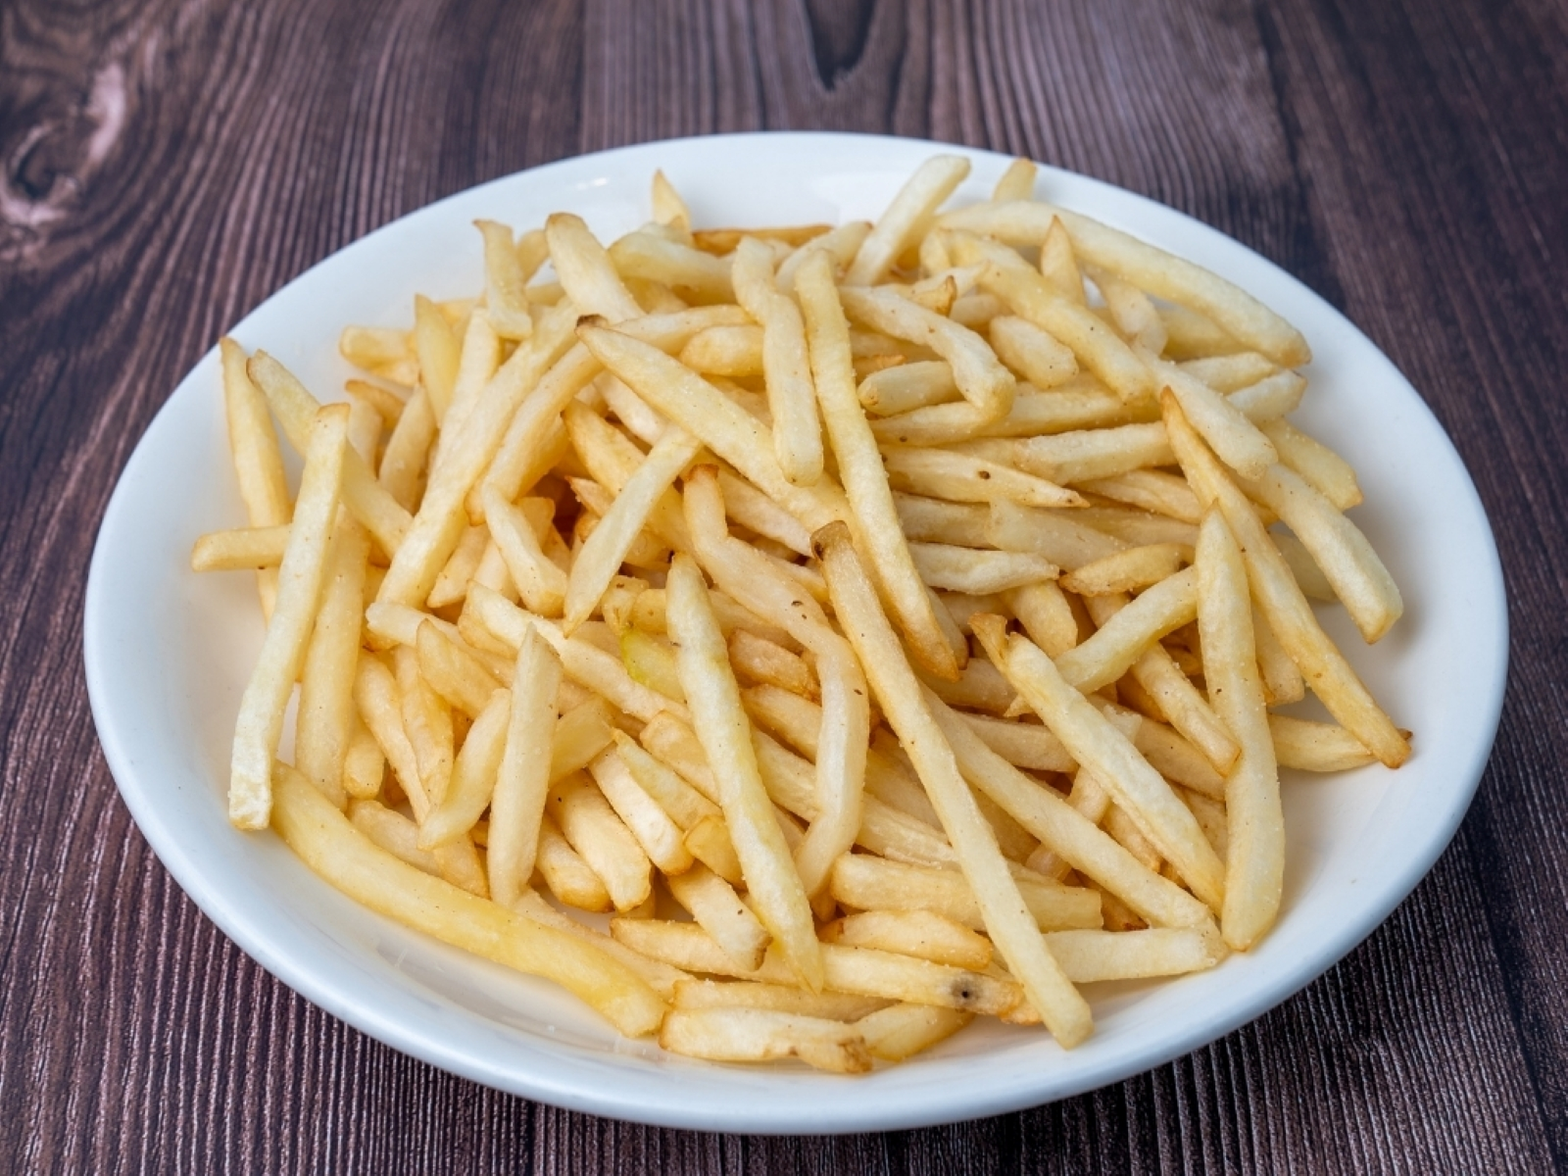
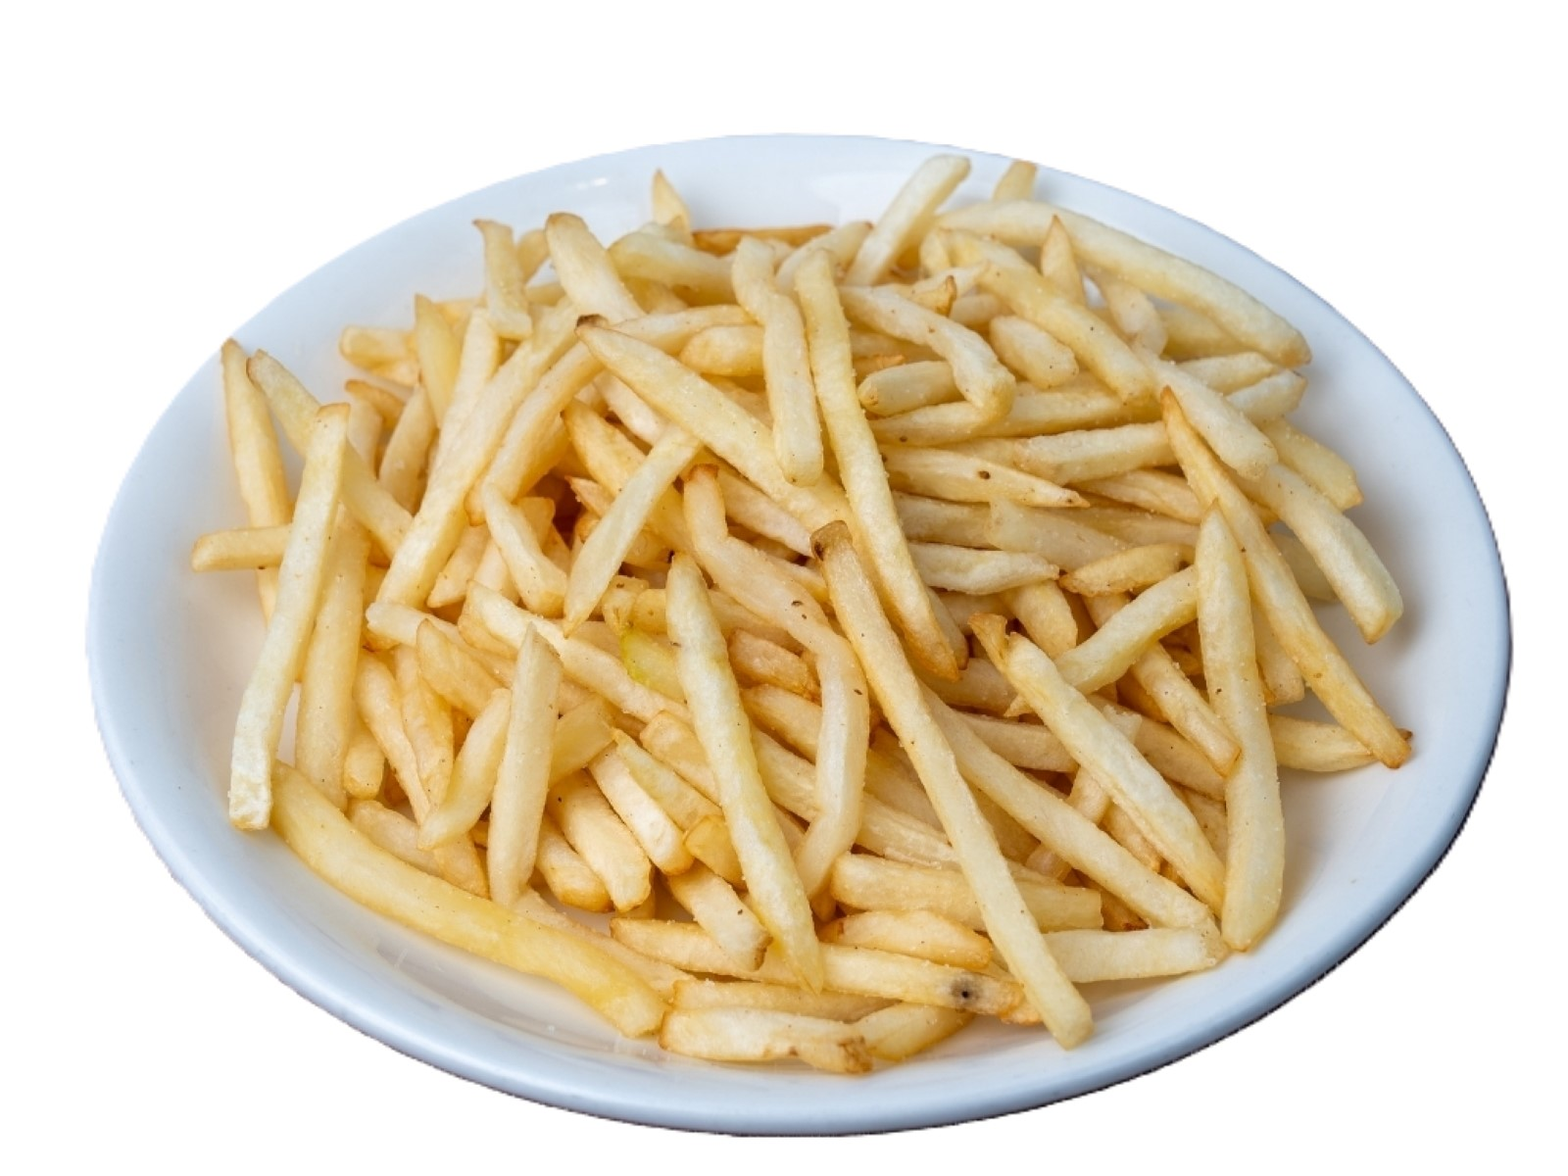
Refresh all menu photos with new client image set
Swap all 49 menu item photos in menu-data.ts to the new client-provided
images. Lamb Shish uses the corrected lamb-shish photo; Four-Section Pide
uses the Mix Pide photo. Old images retained locally as backup.

diff --git a/lib/menu-data.ts b/lib/menu-data.ts
@@ -58,18 +58,18 @@ export const menuSections: MenuSection[] = [
     imageAlt:
       "A mixed kebab platter at Meet and Eat featuring Adana, lamb shish, chicken shish, and beef doner kebabs with rice, fresh salad, and grilled peppers",
     items: [
-      { name: "Beef Doner Kebab", description: "Thinly sliced marinated beef, served with rice, onion, and sour red cabbage salad, and flatbread.", price: 23, featured: true, image: "/images/menu/Kebabs/Beef Doner Kebab.png" },
-      { name: "Iskender Kebab", description: "Marinated beef slices over pita bread, topped with tomato sauce and melted butter, served with yogurt.", price: 24, featured: true, image: "/images/menu/Kebabs/Iskender Kebab.png" },
-      { name: "Chicken Shish", description: "Grilled marinated chicken skewers, served with rice, onion, and sour red cabbage salad, and flatbread.", price: 22, image: "/images/menu/Kebabs/18 Chicken.jpg" },
-      { name: "Adana Kebab", description: "Spicy minced beef kebab, grilled and served with rice, onion, and sour red cabbage salad, and flatbread.", price: 23, featured: true, image: "/images/menu/Kebabs/Adana Kebab.png" },
-      { name: "Beyti Kebab", description: "Grilled ground meat wrapped in flatbread, topped with tomato sauce and butter, served with yogurt.", price: 25, image: "/images/menu/Kebabs/9 Beyti.jpg" },
-      { name: "Kofte (Meatballs)", description: "Seasoned minced meat patties, served with rice, onion, and sour red cabbage salad, and flatbread.", price: 20, image: "/images/menu/Kebabs/3 Kofte (Meetballs).jpg" },
-      { name: "Lamb Shish", description: "Grilled marinated lamb skewers, served with rice, onion, and sour red cabbage salad, and flatbread.", price: 29, image: "/images/menu/Kebabs/Lamb Shish.png" },
-      { name: "Ali Nazik", description: "Tender lamb sauteed in butter and tomato sauce, served over a roasted eggplant puree with garlic yogurt.", price: 27, image: "/images/menu/Kebabs/8 Alinazik.jpg" },
-      { name: "Chicken Wings", description: "Grilled marinated chicken wings, served with rice, onion, and sour red cabbage salad, and flatbread.", price: 19, image: "/images/menu/Kebabs/17 Wings.jpg" },
-      { name: "Mixed Kebab Platter", description: "A selection of Adana, chicken, and lamb shish kebabs, served with rice, onion, and sour red cabbage salad, and flatbread.", price: 35, image: "/images/menu/Kebabs/25 Mix Kebab.jpg" },
-      { name: "Mixed Kebab Platter for 2-3", description: "Generous platter offering a variety of grilled meats, including 1 lamb shish, 1 chicken shish, 1 Adana, 2 wings, 2 kofte, and beef doner. Served with rice, onion, and sour red cabbage salad, and 2 fresh flatbreads.", price: 59, image: "/images/menu/Kebabs/Mixed Kebab Flatter for 2-3.jpg" },
-      { name: "Mixed Kebab for Family for 4-5", description: "A generous platter offering a variety of grilled meats, including 1 lamb shish, 1 chicken shish, 1 Adana, 2 wings, 4 kofte, and beef doner. Served with rice, onion, and sour red cabbage salad, and 2 fresh flatbreads.", price: 89, image: "/images/menu/Kebabs/Mixed Kebab For Family 4.png" },
+      { name: "Beef Doner Kebab", description: "Thinly sliced marinated beef, served with rice, onion, and sour red cabbage salad, and flatbread.", price: 23, featured: true, image: "/images/menu/Kebabs/Doner.jpg" },
+      { name: "Iskender Kebab", description: "Marinated beef slices over pita bread, topped with tomato sauce and melted butter, served with yogurt.", price: 24, featured: true, image: "/images/menu/Kebabs/Iskender.jpg" },
+      { name: "Chicken Shish", description: "Grilled marinated chicken skewers, served with rice, onion, and sour red cabbage salad, and flatbread.", price: 22, image: "/images/menu/Kebabs/Chicken.jpg" },
+      { name: "Adana Kebab", description: "Spicy minced beef kebab, grilled and served with rice, onion, and sour red cabbage salad, and flatbread.", price: 23, featured: true, image: "/images/menu/Kebabs/Adana.jpg" },
+      { name: "Beyti Kebab", description: "Grilled ground meat wrapped in flatbread, topped with tomato sauce and butter, served with yogurt.", price: 25, image: "/images/menu/Kebabs/Beyti.jpg" },
+      { name: "Kofte (Meatballs)", description: "Seasoned minced meat patties, served with rice, onion, and sour red cabbage salad, and flatbread.", price: 20, image: "/images/menu/Kebabs/Kofte.jpg" },
+      { name: "Lamb Shish", description: "Grilled marinated lamb skewers, served with rice, onion, and sour red cabbage salad, and flatbread.", price: 29, image: "/images/menu/Kebabs/Lamb Shish.jpg" },
+      { name: "Ali Nazik", description: "Tender lamb sauteed in butter and tomato sauce, served over a roasted eggplant puree with garlic yogurt.", price: 27, image: "/images/menu/Kebabs/Alinazik.jpg" },
+      { name: "Chicken Wings", description: "Grilled marinated chicken wings, served with rice, onion, and sour red cabbage salad, and flatbread.", price: 19, image: "/images/menu/Kebabs/Wings.jpg" },
+      { name: "Mixed Kebab Platter", description: "A selection of Adana, chicken, and lamb shish kebabs, served with rice, onion, and sour red cabbage salad, and flatbread.", price: 35, image: "/images/menu/Kebabs/Mix Kebab.jpg" },
+      { name: "Mixed Kebab Platter for 2-3", description: "Generous platter offering a variety of grilled meats, including 1 lamb shish, 1 chicken shish, 1 Adana, 2 wings, 2 kofte, and beef doner. Served with rice, onion, and sour red cabbage salad, and 2 fresh flatbreads.", price: 59, image: "/images/menu/Kebabs/Mix Kebab For 2.jpg" },
+      { name: "Mixed Kebab for Family for 4-5", description: "A generous platter offering a variety of grilled meats, including 1 lamb shish, 1 chicken shish, 1 Adana, 2 wings, 4 kofte, and beef doner. Served with rice, onion, and sour red cabbage salad, and 2 fresh flatbreads.", price: 89, image: "/images/menu/Kebabs/Mix Kebab For family.jpg" },
     ],
   },
   {
@@ -81,18 +81,18 @@ export const menuSections: MenuSection[] = [
     imageAlt:
       "A traditional lamb platter at Meet and Eat featuring grilled lamb chops, lamb shish, and seasoned lamb cuts with rice, salads, and grilled tomatoes",
     items: [
-      { name: "Fettucini Alfredo", description: "Creamy fettuccine alfredo with tender chicken slices and sauteed mushrooms.", price: 18, image: "/images/menu/Pasta/14 Fettucini.jpg" },
-      { name: "Stuffed Eggplant", description: "Eggplant stuffed with a savory mix of tomatoes, peppers, and onions, accompanied by rice and flatbread.", price: 18, image: "/images/menu/Traditional Dishes/35 Karni Yarik.jpg" },
-      { name: "Lamb Shank", description: "Slow-cooked lamb shank, seasoned with spices and topped with mozzarella, served with rice and flatbread.", price: 25, featured: true, image: "/images/menu/Traditional Dishes/36 Lamb Shank.jpg" },
-      { name: "Spaghetti Bolognese", description: "Classic spaghetti paired with a hearty tomato-based Bolognese sauce made from ground beef.", price: 18, image: "/images/menu/Pasta/13 Spagetti.jpg" },
-      { name: "Chicken Casserole", description: "Slow-cooked traditional Turkish casserole with chicken, tomatoes, peppers, onions, and spices. Served with rice and flatbread.", price: 25, image: "/images/menu/Traditional Dishes/7 Chicken Casserole.png" },
-      { name: "Beef Casserole", description: "Slow-cooked traditional Turkish casserole with beef, tomatoes, peppers, onions, and spices. Served with rice and flatbread.", price: 28, image: "/images/menu/Traditional Dishes/6 Beef Casserole.png" },
-      { name: "Lamb Chops", description: "Grilled, juicy lamb chops served with rice, onion and sour red cabbage salad, and flatbread.", price: 39, featured: true, image: "/images/menu/Kebabs/1 Lamb Chop.jpg" },
-      { name: "Chicken Saute", description: "Chicken, peppers, onions, and tomatoes sauteed in a 'pot' pan with spices. Served with rice and flatbread.", price: 25, image: "/images/menu/Traditional Dishes/5 Chicken Saute.png" },
-      { name: "Beef Saute", description: "Beef, peppers, onions, and tomatoes sauteed in a 'pot' pan with spices. Served with rice and flatbread.", price: 28, image: "/images/menu/Traditional Dishes/4 Beef Saute.png" },
-      { name: "Chicken Shish Wrap", description: "Grilled marinated chicken skewers, lettuce, onion, and tomato wrapped in flatbread.", price: 14, image: "/images/menu/Wraps/31 Chicken Wrap.jpg" },
-      { name: "Beef Doner Wrap", description: "Thinly sliced marinated beef doner, lettuce, onion, and tomato wrapped in flatbread.", price: 15, image: "/images/menu/Wraps/32 Doner Wrap.jpg" },
-      { name: "Adana Wrap", description: "Minced beef kebab, lettuce, onion, and tomato wrapped in flatbread.", price: 16, image: "/images/menu/Wraps/33 Adana Wrap.jpg" },
+      { name: "Fettucini Alfredo", description: "Creamy fettuccine alfredo with tender chicken slices and sauteed mushrooms.", price: 18, image: "/images/menu/Pasta/Fettucini.jpg" },
+      { name: "Stuffed Eggplant", description: "Eggplant stuffed with a savory mix of tomatoes, peppers, and onions, accompanied by rice and flatbread.", price: 18, image: "/images/menu/Traditional Dishes/Karni Yarik.jpg" },
+      { name: "Lamb Shank", description: "Slow-cooked lamb shank, seasoned with spices and topped with mozzarella, served with rice and flatbread.", price: 25, featured: true, image: "/images/menu/Traditional Dishes/Lamb Shank.jpg" },
+      { name: "Spaghetti Bolognese", description: "Classic spaghetti paired with a hearty tomato-based Bolognese sauce made from ground beef.", price: 18, image: "/images/menu/Pasta/Spagetti.jpg" },
+      { name: "Chicken Casserole", description: "Slow-cooked traditional Turkish casserole with chicken, tomatoes, peppers, onions, and spices. Served with rice and flatbread.", price: 25, image: "/images/menu/Traditional Dishes/Chicken Guvec.png" },
+      { name: "Beef Casserole", description: "Slow-cooked traditional Turkish casserole with beef, tomatoes, peppers, onions, and spices. Served with rice and flatbread.", price: 28, image: "/images/menu/Traditional Dishes/Beef Guvec.png" },
+      { name: "Lamb Chops", description: "Grilled, juicy lamb chops served with rice, onion and sour red cabbage salad, and flatbread.", price: 39, featured: true, image: "/images/menu/Kebabs/Lamb Chop.jpg" },
+      { name: "Chicken Saute", description: "Chicken, peppers, onions, and tomatoes sauteed in a 'pot' pan with spices. Served with rice and flatbread.", price: 25, image: "/images/menu/Traditional Dishes/Chicken Sote.png" },
+      { name: "Beef Saute", description: "Beef, peppers, onions, and tomatoes sauteed in a 'pot' pan with spices. Served with rice and flatbread.", price: 28, image: "/images/menu/Traditional Dishes/Beef Sote.png" },
+      { name: "Chicken Shish Wrap", description: "Grilled marinated chicken skewers, lettuce, onion, and tomato wrapped in flatbread.", price: 14, image: "/images/menu/Wraps/Chicken Wrap.jpg" },
+      { name: "Beef Doner Wrap", description: "Thinly sliced marinated beef doner, lettuce, onion, and tomato wrapped in flatbread.", price: 15, image: "/images/menu/Wraps/Doner Wrap.jpg" },
+      { name: "Adana Wrap", description: "Minced beef kebab, lettuce, onion, and tomato wrapped in flatbread.", price: 16, image: "/images/menu/Wraps/Adana Wrap.jpg" },
     ],
   },
   {
@@ -104,18 +104,18 @@ export const menuSections: MenuSection[] = [
     imageAlt:
       "A four-section Turkish pide on a wooden board at Meet and Eat featuring chicken, sausage and mozzarella, spinach and feta, and ground meat",
     items: [
-      { name: "Lahmacun (XL 18\")", description: "Thin flatbread topped with a savory mixture of minced meat, vegetables, and spices, served with fresh parsley, sumac, onions, and lemon.", price: 20, featured: true, image: "/images/menu/Pides/Lahmacun (XL-18).png" },
-      { name: "Kiymali Pide", description: "Turkish flatbread topped with minced meat, onions, and aromatic spices, baked to perfection.", price: 20, image: "/images/menu/Pides/19 Ground Beef Pide.jpg" },
-      { name: "Mevlana Pide", description: "Flatbread topped with spiced minced beef, a mix of vegetables, and feta cheese.", price: 21, image: "/images/menu/Pides/20 Mevlana.jpg" },
-      { name: "Kusbasili Pide", description: "Flatbread topped with tender diced beef and aromatic spices, baked to perfection.", price: 23, image: "/images/menu/Pides/21 Kusbasili pide.jpg" },
-      { name: "Doner Pide", description: "Flatbread filled with savory doner meat, baked to a golden finish.", price: 20, image: "/images/menu/Pides/10 Donerli pide.jpg" },
-      { name: "Chicken Pide", description: "Flatbread topped with marinated chicken and fresh vegetables, baked to a crisp.", price: 17, image: "/images/menu/Pides/11 Chicken Pide.jpg" },
-      { name: "Four-Section Pide", description: "A flatbread baked to perfection, divided into four delicious sections: chicken, sausage and mozzarella, spinach and feta, and ground meat.", price: 21, image: "/images/menu/Pides/Four-Section Pide.jpg" },
-      { name: "Mix Meat Pide", description: "A rich and satisfying feast featuring a combination of minced meat, diced beef, and soujouk with mozzarella on pide.", price: 22, image: "/images/menu/Pides/Mix Meat Pide.png" },
-      { name: "Soujouk and Mozzarella Pide", description: "Flatbread topped with savory sausage and melted mozzarella cheese, baked until golden.", price: 21, image: "/images/menu/Pides/Soujouk and Mozarella Pide.png" },
-      { name: "Mushroom Pide", description: "Flatbread topped with mushrooms, peppers, cheese, and butter, baked to perfection.", price: 17, dietary: ["vegetarian"], image: "/images/menu/Pides/Mushroom Pide.jpg" },
-      { name: "Spinach & Feta Pide", description: "Flatbread topped with fresh spinach and feta cheese, enhanced with herbs and spices.", price: 17, dietary: ["vegetarian"], image: "/images/menu/Pides/Spinach and Feta Cheese Pide.jpg" },
-      { name: "Mozzarella Pide", description: "Flatbread topped with mozzarella cheese, baked until golden and crispy.", price: 17, dietary: ["vegetarian"], image: "/images/menu/Pides/29 Mozerella pide.jpg" },
+      { name: "Lahmacun (XL 18\")", description: "Thin flatbread topped with a savory mixture of minced meat, vegetables, and spices, served with fresh parsley, sumac, onions, and lemon.", price: 20, featured: true, image: "/images/menu/Pides/Lahmacun.jpg" },
+      { name: "Kiymali Pide", description: "Turkish flatbread topped with minced meat, onions, and aromatic spices, baked to perfection.", price: 20, image: "/images/menu/Pides/Ground Beef Pide.jpg" },
+      { name: "Mevlana Pide", description: "Flatbread topped with spiced minced beef, a mix of vegetables, and feta cheese.", price: 21, image: "/images/menu/Pides/Mevlana.jpg" },
+      { name: "Kusbasili Pide", description: "Flatbread topped with tender diced beef and aromatic spices, baked to perfection.", price: 23, image: "/images/menu/Pides/Kusbasili pide.jpg" },
+      { name: "Doner Pide", description: "Flatbread filled with savory doner meat, baked to a golden finish.", price: 20, image: "/images/menu/Pides/Donerli pide.jpg" },
+      { name: "Chicken Pide", description: "Flatbread topped with marinated chicken and fresh vegetables, baked to a crisp.", price: 17, image: "/images/menu/Pides/Chicken Pide.jpg" },
+      { name: "Four-Section Pide", description: "A flatbread baked to perfection, divided into four delicious sections: chicken, sausage and mozzarella, spinach and feta, and ground meat.", price: 21, image: "/images/menu/Pides/Mix Pide.jpg" },
+      { name: "Mix Meat Pide", description: "A rich and satisfying feast featuring a combination of minced meat, diced beef, and soujouk with mozzarella on pide.", price: 22, image: "/images/menu/Pides/Mix Meat Pide 2.png" },
+      { name: "Soujouk and Mozzarella Pide", description: "Flatbread topped with savory sausage and melted mozzarella cheese, baked until golden.", price: 21, image: "/images/menu/Pides/Sucuklu pide.jpg" },
+      { name: "Mushroom Pide", description: "Flatbread topped with mushrooms, peppers, cheese, and butter, baked to perfection.", price: 17, dietary: ["vegetarian"], image: "/images/menu/Pides/Mantarli Pide.jpg" },
+      { name: "Spinach & Feta Pide", description: "Flatbread topped with fresh spinach and feta cheese, enhanced with herbs and spices.", price: 17, dietary: ["vegetarian"], image: "/images/menu/Pides/Ispanakli Byz Peynirli.jpg" },
+      { name: "Mozzarella Pide", description: "Flatbread topped with mozzarella cheese, baked until golden and crispy.", price: 17, dietary: ["vegetarian"], image: "/images/menu/Pides/Kasarli pide.jpg" },
     ],
   },
   {
@@ -127,17 +127,17 @@ export const menuSections: MenuSection[] = [
     imageAlt:
       "Meet and Eat appetizer menu — lentil soup, fries, cacik, ezme, eggplant puree, hummus, mix appetizer plate, kofte for kids, and three seasonal salads (plain, chicken, tuna)",
     items: [
-      { name: "Lentil Soup", description: "Hearty red lentil soup with onions, carrots, and spices, served with lemon and bread.", price: 8, altPrice: { label: "Half bowl", price: 5 }, image: "/images/menu/Soups/Lentil Soup.jpg" },
+      { name: "Lentil Soup", description: "Hearty red lentil soup with onions, carrots, and spices, served with lemon and bread.", price: 8, altPrice: { label: "Half bowl", price: 5 }, image: "/images/menu/Soups/Corba.jpg" },
       { name: "Fries", description: "Crispy, golden French fries, perfectly seasoned and served hot.", price: 8, dietary: ["vegetarian"], image: "/images/menu/Appetizer/fries.jpg" },
-      { name: "Cacik", description: "Yogurt with cucumber and garlic, seasoned with olive oil and mint.", price: 7, dietary: ["vegetarian", "contains-dairy"], image: "/images/menu/Appetizer/Cacik.png" },
-      { name: "Ezme", description: "Finely chopped tomato, cucumber, and pepper with olive oil, pomegranate molasses, and red pepper flakes.", price: 7, dietary: ["vegan"], image: "/images/menu/Appetizer/Ezme.png" },
-      { name: "Eggplant Puree", description: "Roasted eggplant blended with olive oil, garlic, and lemon for a smoky flavor.", price: 7, dietary: ["vegan"], image: "/images/menu/Appetizer/Eggplant Puree.png" },
-      { name: "Hummus", description: "Chickpeas blended with tahini, garlic, lemon juice, and olive oil for a smooth dip.", price: 7, dietary: ["vegan"], image: "/images/menu/Appetizer/Hummus.png" },
-      { name: "Mix Appetizer", description: "A rich selection of five separate plates featuring ezme, eggplant puree, cacik, and hummus.", price: 19, dietary: ["vegetarian"], featured: true, image: "/images/menu/Appetizer/Mix Mezze.jpg" },
-      { name: "Kofte for Kids", description: "Crafted with a blend of homemade meat, onions, and special spices. Served with French fries. Substitution: 1 Adana skewer, 1 lamb skewer, 1 chicken skewer, or 1 wing skewer.", price: 12, image: "/images/menu/Appetizer/Kofte for Kids.jpg" },
-      { name: "Seasonal Salad", description: "A refreshing salad of lettuce, tomatoes, cucumbers, carrots, and parsley with a light dressing.", price: 9, dietary: ["vegan"], image: "/images/menu/Salads/Seasonal_Salad.jpg" },
-      { name: "Chicken on Seasonal Salad", description: "Grilled chicken breast on a fresh seasonal salad with a light, refreshing dressing.", price: 12, image: "/images/menu/Salads/Chicken on Seasonal Salad.jpg" },
-      { name: "Tuna on Seasonal Salad", description: "Tender tuna on a fresh seasonal salad with a light, refreshing dressing.", price: 12, image: "/images/menu/Salads/Tuna on Seasonal Salad.jpg" },
+      { name: "Cacik", description: "Yogurt with cucumber and garlic, seasoned with olive oil and mint.", price: 7, dietary: ["vegetarian", "contains-dairy"], image: "/images/menu/Appetizer/Cacik.jpg" },
+      { name: "Ezme", description: "Finely chopped tomato, cucumber, and pepper with olive oil, pomegranate molasses, and red pepper flakes.", price: 7, dietary: ["vegan"], image: "/images/menu/Appetizer/Ezme.jpg" },
+      { name: "Eggplant Puree", description: "Roasted eggplant blended with olive oil, garlic, and lemon for a smoky flavor.", price: 7, dietary: ["vegan"], image: "/images/menu/Appetizer/Eggplant pure.jpg" },
+      { name: "Hummus", description: "Chickpeas blended with tahini, garlic, lemon juice, and olive oil for a smooth dip.", price: 7, dietary: ["vegan"], image: "/images/menu/Appetizer/humus.jpg" },
+      { name: "Mix Appetizer", description: "A rich selection of five separate plates featuring ezme, eggplant puree, cacik, and hummus.", price: 19, dietary: ["vegetarian"], featured: true, image: "/images/menu/Appetizer/Mix meze 4.png" },
+      { name: "Kofte for Kids", description: "Crafted with a blend of homemade meat, onions, and special spices. Served with French fries. Substitution: 1 Adana skewer, 1 lamb skewer, 1 chicken skewer, or 1 wing skewer.", price: 12, image: "/images/menu/Appetizer/kids kofte.jpg" },
+      { name: "Seasonal Salad", description: "A refreshing salad of lettuce, tomatoes, cucumbers, carrots, and parsley with a light dressing.", price: 9, dietary: ["vegan"], image: "/images/menu/Salads/Seasional Salad.jpg" },
+      { name: "Chicken on Seasonal Salad", description: "Grilled chicken breast on a fresh seasonal salad with a light, refreshing dressing.", price: 12, image: "/images/menu/Salads/Chicken Salad.jpg" },
+      { name: "Tuna on Seasonal Salad", description: "Tender tuna on a fresh seasonal salad with a light, refreshing dressing.", price: 12, image: "/images/menu/Salads/Tuna Salad.jpg" },
     ],
   },
   {
@@ -149,8 +149,8 @@ export const menuSections: MenuSection[] = [
     imageAlt:
       "Meet and Eat dessert and beverage menu — kunefe and rice pudding desserts, plus Coke products, Sprite, Nestea, ginger ale, ayran, Uludag gazoz, juice, red turnip juice, mineral water, and Turkish tea",
     items: [
-      { name: "Kunefe", description: "Shredded phyllo pastry layered with sweet cheese, baked until golden, soaked in syrup.", price: 10, dietary: ["vegetarian", "contains-dairy"], featured: true, image: "/images/menu/Deserts/42 Kunefe.png" },
-      { name: "Rice Pudding", description: "Traditional Turkish rice pudding, oven-baked with a caramelized top.", price: 5, dietary: ["vegetarian", "contains-dairy"], image: "/images/menu/Deserts/40 Sutlac.png" },
+      { name: "Kunefe", description: "Shredded phyllo pastry layered with sweet cheese, baked until golden, soaked in syrup.", price: 10, dietary: ["vegetarian", "contains-dairy"], featured: true, image: "/images/menu/Deserts/Kunefe.jpg" },
+      { name: "Rice Pudding", description: "Traditional Turkish rice pudding, oven-baked with a caramelized top.", price: 5, dietary: ["vegetarian", "contains-dairy"], image: "/images/menu/Deserts/Sutlac.jpg" },
       { name: "Coke", price: 2.5, compact: true },
       { name: "Coke Diet", price: 2.5, compact: true },
       { name: "Coke Zero", price: 2.5, compact: true },
